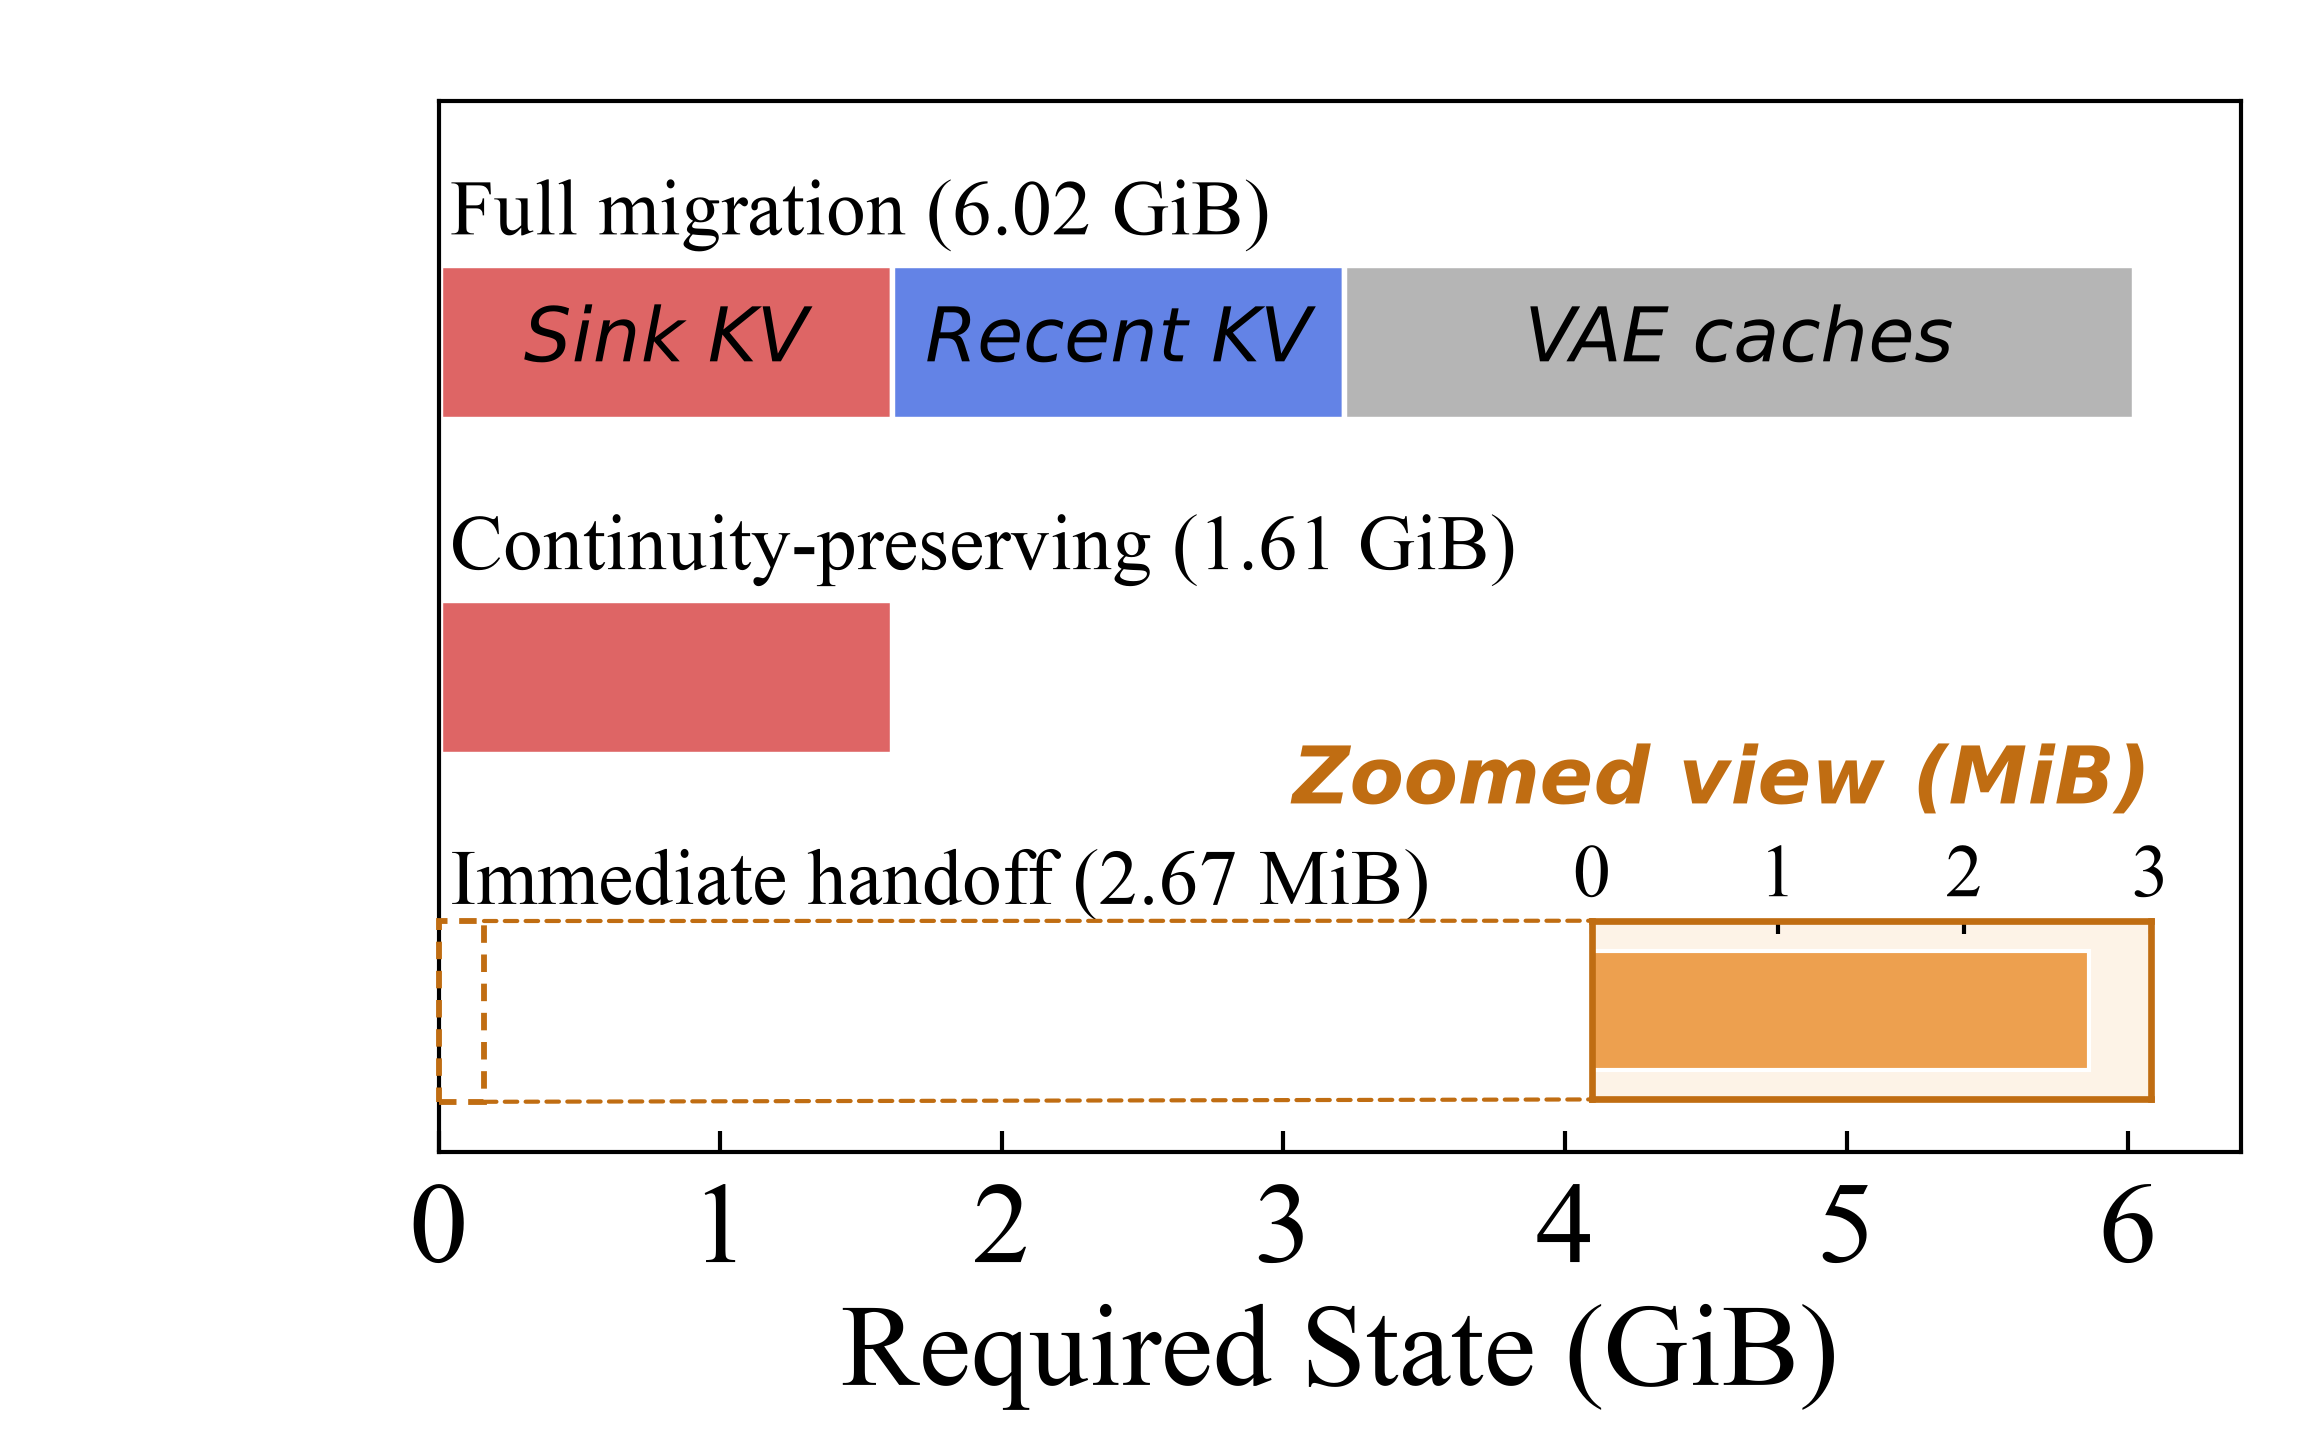
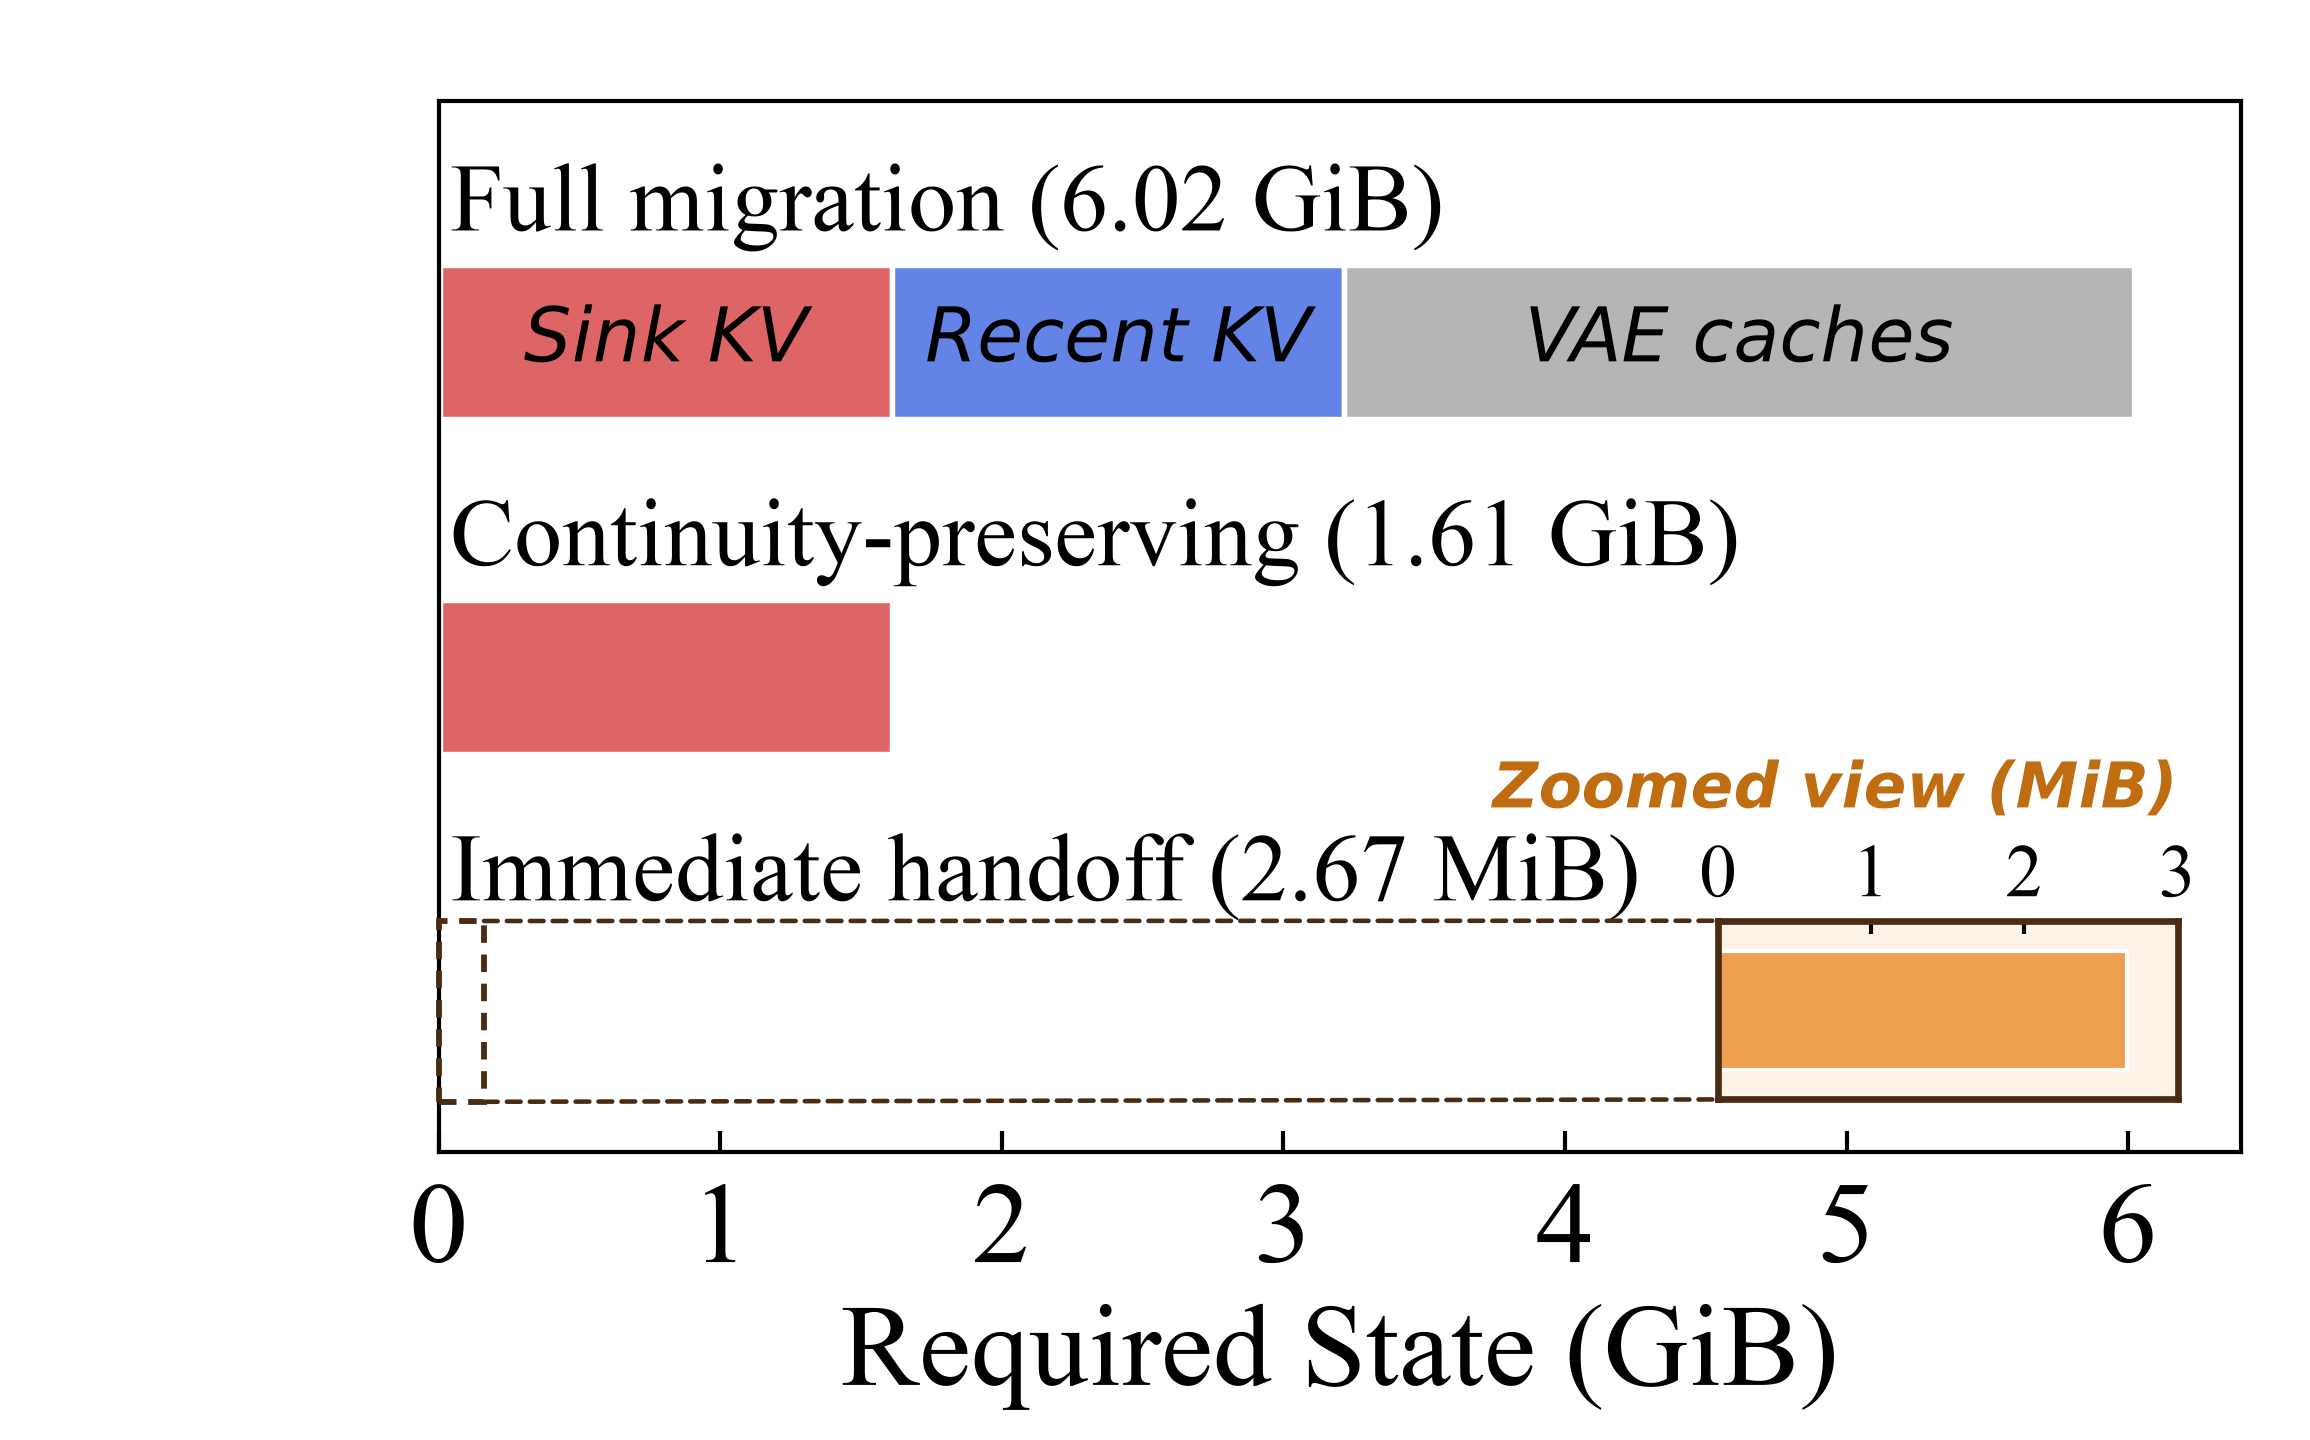
Fig. 2a: smaller zoom title (15 pt), larger row names (23 pt), dark-brown zoom box, connectors and inset frame

diff --git a/tools/make_background_figures.py b/tools/make_background_figures.py
@@ -57,6 +57,9 @@ FIG2A_AXES = [0.19, 0.20, 0.78, 0.73]
 # font sizes of the same reference (LONGBENCH_STYLE): axis label 28, ticks 28, annotations 19 (italic DejaVu Sans),
 # dense annotations 18
 F2_LABEL, F2_TICK, F2_ANNOT, F2_SMALL = 28, 28, 19, 18
+F2_ROW = 23          # row names of the requirements panel (they stand in for y tick labels)
+F2_ZOOM_TITLE = 15   # "Zoomed view (MiB)"
+C_ZOOM_LINE = "#4a2c12"  # dark brown: zoom source box, connector lines, inset frame
 WIDE_W = 12.4
 
 BLUE, ORANGE, RED = "#486ee2", "#ffb226", "red"
@@ -172,15 +175,15 @@ def _zoom(ax, ix, src_box, connect, title_y, title_right=False):
     from matplotlib.patches import Rectangle as _Rect
     ix.set_facecolor(C_ZOOM_BG)
     for sp in ix.spines.values():
-        sp.set_linewidth(1.6); sp.set_edgecolor(C_IMM_TEXT)
+        sp.set_linewidth(1.6); sp.set_edgecolor(C_ZOOM_LINE)
     ix.xaxis.tick_top()
     ix.tick_params(axis="x", direction="in", width=1, length=3, pad=2, labelsize=F2_SMALL, colors=BLACK)
     x0, y0, w, h = src_box
-    ax.add_patch(_Rect((x0, y0), w, h, fill=False, edgecolor=C_IMM_TEXT, lw=1.4, ls=(0, (3, 2)), zorder=4, clip_on=False))
+    ax.add_patch(_Rect((x0, y0), w, h, fill=False, edgecolor=C_ZOOM_LINE, lw=1.4, ls=(0, (3, 2)), zorder=4, clip_on=False))
     for (xa, ya), (xb, yb) in connect:
         ax.add_artist(ConnectionPatch(xyA=(xa, ya), coordsA=ax.transData, xyB=(xb, yb), coordsB=ix.transAxes,
-                                      color=C_IMM_TEXT, lw=1.0, ls=(0, (3, 2)), zorder=3))
-    _in_label(ix, 1.0 if title_right else 0.0, title_y, "Zoomed view (MiB)", F2_ANNOT, transform=ix.transAxes,
+                                      color=C_ZOOM_LINE, lw=1.1, ls=(0, (3, 2)), zorder=3))
+    _in_label(ix, 1.0 if title_right else 0.0, title_y, "Zoomed view (MiB)", F2_ZOOM_TITLE, transform=ix.transAxes,
               ha="right" if title_right else "left", va="bottom", color=C_IMM_TEXT, weight="bold")
 
 
@@ -239,11 +242,11 @@ def fig2a(out: Path):
         tot = sum(b for b, _, _ in parts)
         val = f"{tot / GiB:.2f} GiB" if tot > 0.1 * GiB else f"{tot / MiB:.2f} MiB"
         # row name and total above its bar (28 pt names do not fit the reference's left margin)
-        bx.text(0.04, y + bh / 2 + 0.04, f"{name} ({val})", fontsize=F2_ANNOT, ha="left", va="bottom", color=BLACK)
+        bx.text(0.04, y + bh / 2 + 0.04, f"{name} ({val})", fontsize=F2_ROW, ha="left", va="bottom", color=BLACK)
     bx.set_yticks([])
     bx.set_xlim(0, XMAX); bx.set_ylim(-0.42, 2.72); bx.set_xticks([0, 1, 2, 3, 4, 5, 6])
     _fig2a_axis(bx, "Required State (GiB)")
-    ix0, iy0, iw, ih = 0.64, 0.05, 0.31, 0.17
+    ix0, iy0, iw, ih = 0.71, 0.05, 0.255, 0.17
     jx = bx.inset_axes([ix0, iy0, iw, ih])
     jx.barh(0, d["imm"] / MiB, height=0.6, color=C_IMM, edgecolor="white", lw=1.0, zorder=2)
     jx.set_xlim(0, 3.0); jx.set_ylim(-0.45, 0.45); jx.set_yticks([])
